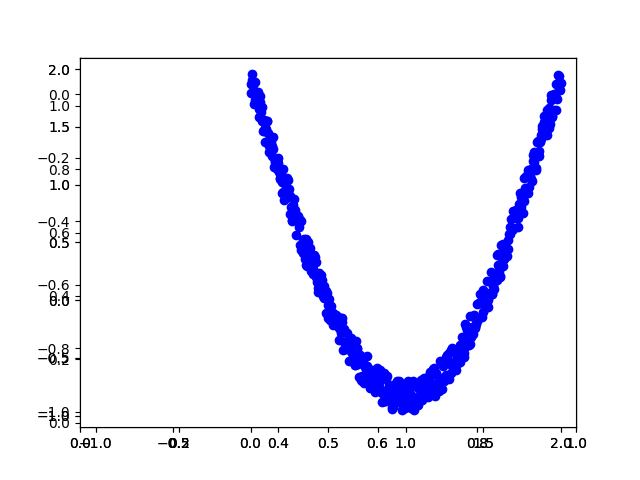
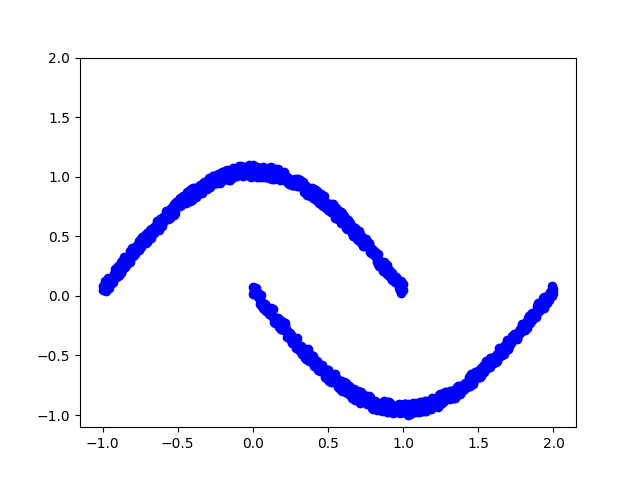
continue EX-2

diff --git a/assignment_2/Ass_2_plots.py b/assignment_2/Ass_2_plots.py
@@ -8,8 +8,6 @@ NUM_POINTS = 500
 def draw_clump(mu_x, mu_y, std_x, std_y, size):
     x = np.random.normal(mu_x, std_x, size=(size,))
     y = np.random.normal(mu_y, std_y, size=(size,))
-    plt.axes().set_ylim(-4, 5)
-    plt.axes().set_xlim(-2, 8)
     plt.plot(x, y, "bo")
 
 
@@ -25,8 +23,6 @@ def draw_half_circle_with_noise(start_x, end_x, start_y, end_y):
     y = np.sin(y)
     y = y + noise
     x = np.linspace(start_x, end_x, num=NUM_POINTS)
-    plt.axes().set_ylim(-1.1, 2.1)
-    plt.axes().set_xlim(-1.1, 2.1)
     plt.plot(x, y, 'bo')
 
 
@@ -58,6 +54,10 @@ def draw_four_clumps():
     draw_clump(0, 2, 0.5, 0.1, int(NUM_POINTS / 4))
     draw_clump(5, 0, 0.5, 0.1, int(NUM_POINTS / 4))
     draw_clump(5, 2, 0.5, 0.1, int(NUM_POINTS / 4))
+    x_ticks = np.linspace(-2, 8, 6)
+    y_ticks = np.linspace(-4, 6, 6)
+    plt.xticks(x_ticks)
+    plt.yticks(y_ticks)
     plt.savefig("./Four_Clumps.png", format="png")
     plt.close()
 
@@ -65,6 +65,12 @@ def draw_four_clumps():
 def draw_two_half_circles_with_noise():
     draw_half_circle_with_noise(-1.0, 1.0, 0, np.pi)
     draw_half_circle_with_noise(0.0, 2.0, np.pi, 2*np.pi)
+    x_ticks_labels = np.linspace(-1, 2, 7)
+    y_ticks_labels = np.linspace(-1, 2, 7)
+    locs_x, _ = plt.xticks()
+    locs_y, _ = plt.yticks()
+    plt.xticks(x_ticks_labels)
+    plt.yticks(y_ticks_labels)
     plt.savefig("./Two_Half_Circles.png", format="png")
     plt.close()
 
